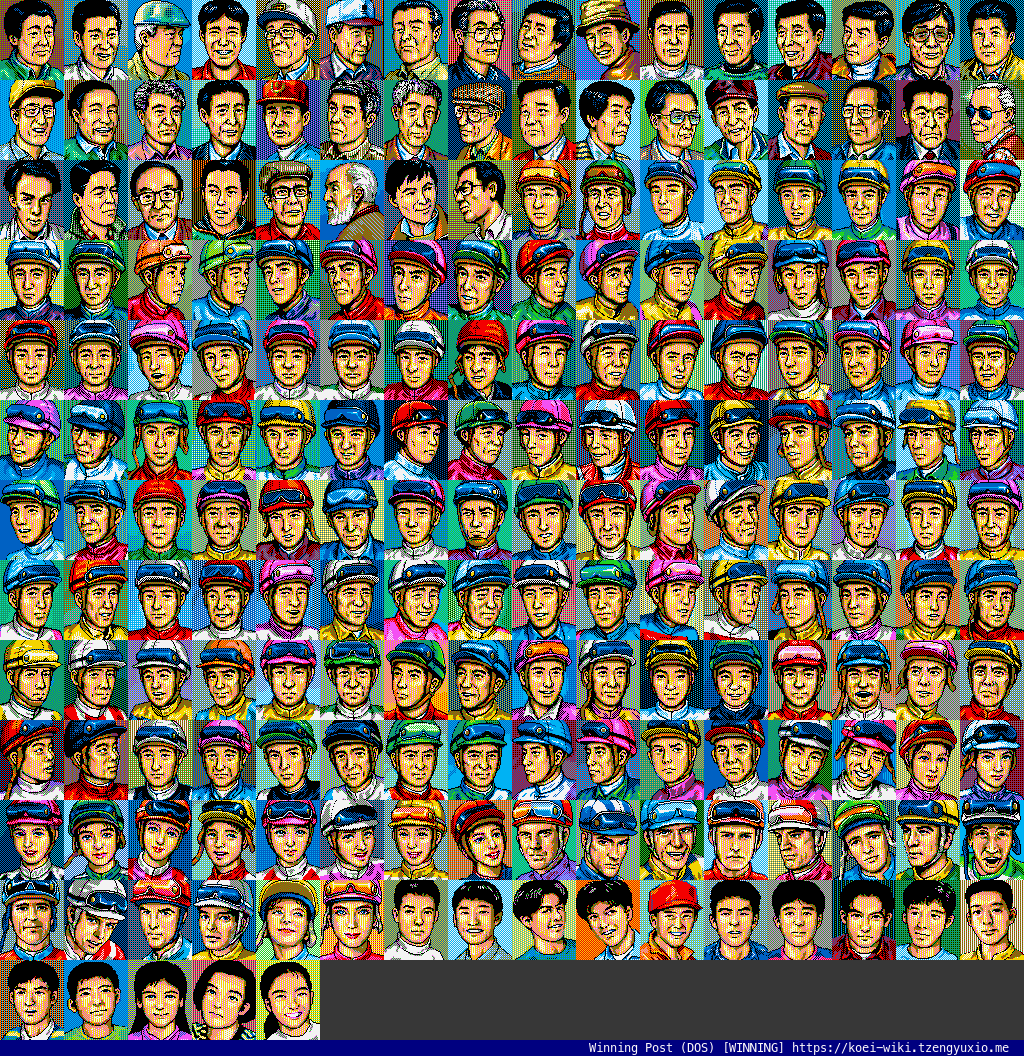
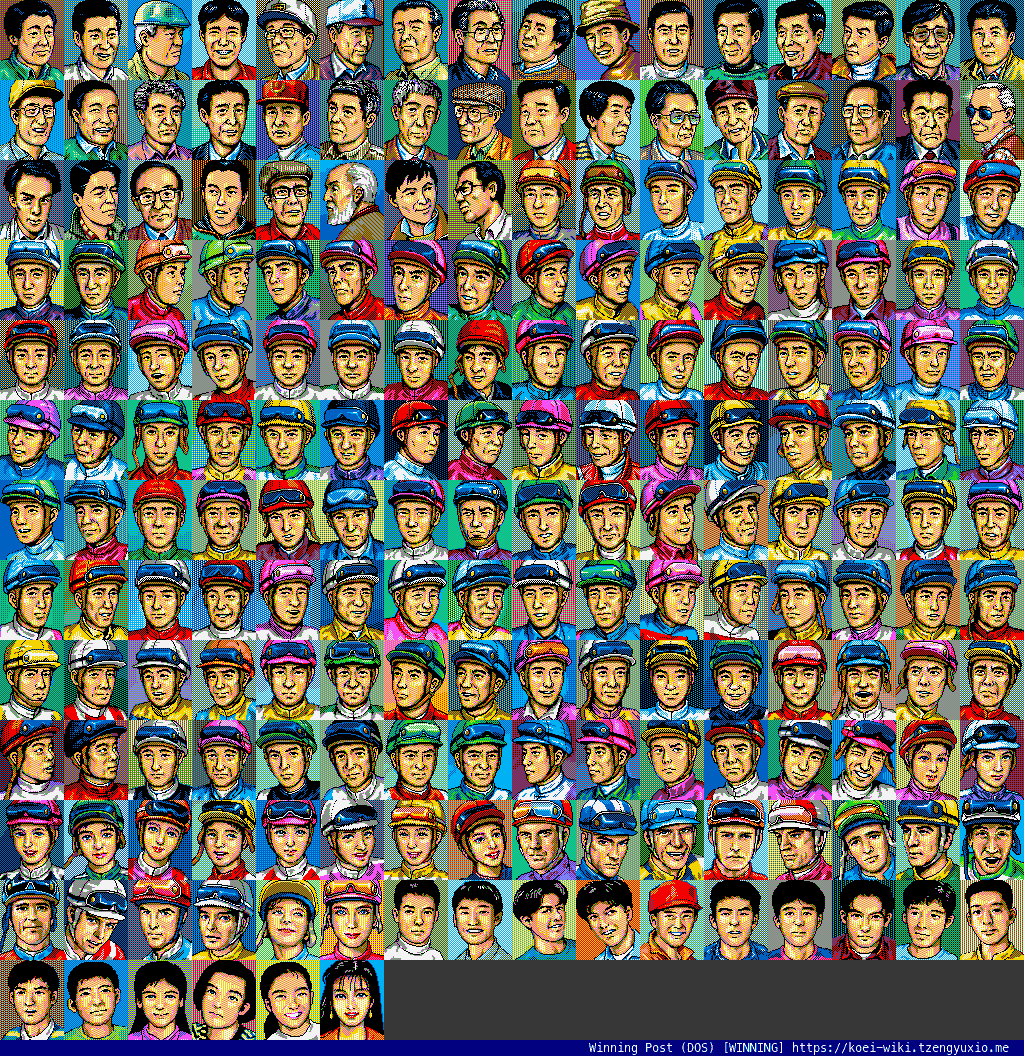
chore: Add new face images to face catalog.
- Added several new and modified face image files.
- Updated the face catalog for the Win and Win Mob versions.
- Minor changes made to the binary image file.

Changed region(s): [[0.3125, 0.9062, 0.375, 1.0]]

diff --git a/遊戲/三國志III/人物顏.md b/遊戲/三國志III/人物顏.md
@@ -14,4 +14,8 @@ editor: markdown
 
 ### WIN
 
-![san3_win_f00-index-noted.png](/assets/faces/00indexes/san3_win_f00-index-noted.png)
+![san3_win_f00-index-noted.png](/assets/faces/00indexes/san3_win_f00-index_kao-noted.png)
+
+### WIN MOB (大眾臉)
+
+![san3_win_f00-index-noted.png](/assets/faces/00indexes/san3_win_f00-index_mob-noted.png)
